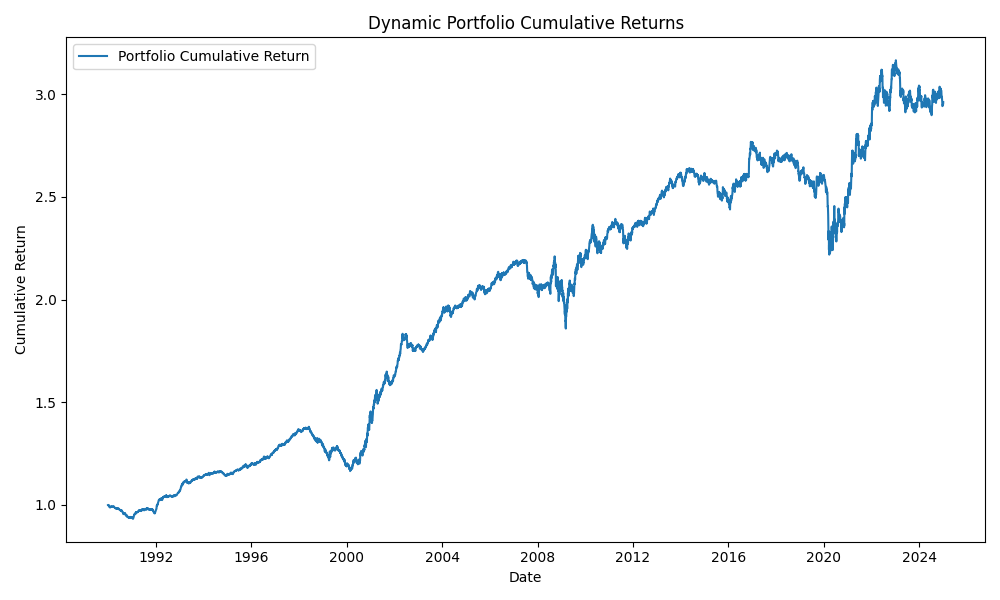
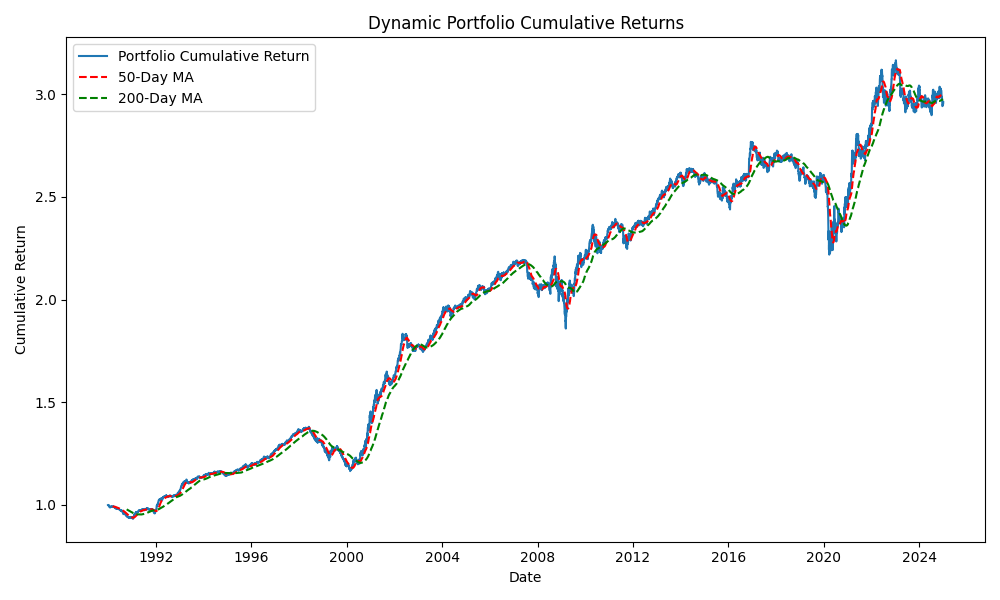
deploy: b4ad38009a0f64b21cd2f6718aca7c026e3aa512

diff --git a/_modules/main.html b/_modules/main.html
@@ -141,13 +141,18 @@
     <span class="n">stressed_results</span> <span class="o">=</span> <span class="n">stress_test_portfolio</span><span class="p">(</span><span class="n">portfolio_returns</span><span class="p">,</span> <span class="n">scenarios</span><span class="p">)</span>
     <span class="nb">print</span><span class="p">(</span><span class="s2">&quot;Stress Test Results:&quot;</span><span class="p">,</span> <span class="n">stressed_results</span><span class="p">)</span>
 
-    <span class="c1"># Generate cumulative returns plot (unchanged)</span>
+    <span class="c1"># Generate cumulative returns plot and include 50 &amp; 200 day moving averages.</span>
     <span class="n">cum_returns</span> <span class="o">=</span> <span class="p">(</span><span class="mi">1</span> <span class="o">+</span> <span class="n">portfolio_returns</span><span class="p">)</span><span class="o">.</span><span class="n">cumprod</span><span class="p">()</span>
+    <span class="n">ma50</span> <span class="o">=</span> <span class="n">cum_returns</span><span class="o">.</span><span class="n">rolling</span><span class="p">(</span><span class="n">window</span><span class="o">=</span><span class="mi">50</span><span class="p">)</span><span class="o">.</span><span class="n">mean</span><span class="p">()</span>
+    <span class="n">ma200</span> <span class="o">=</span> <span class="n">cum_returns</span><span class="o">.</span><span class="n">rolling</span><span class="p">(</span><span class="n">window</span><span class="o">=</span><span class="mi">200</span><span class="p">)</span><span class="o">.</span><span class="n">mean</span><span class="p">()</span>
+
     <span class="n">output_dir</span> <span class="o">=</span> <span class="n">os</span><span class="o">.</span><span class="n">path</span><span class="o">.</span><span class="n">join</span><span class="p">(</span><span class="s2">&quot;docs&quot;</span><span class="p">,</span> <span class="s2">&quot;_static&quot;</span><span class="p">)</span>
     <span class="n">os</span><span class="o">.</span><span class="n">makedirs</span><span class="p">(</span><span class="n">output_dir</span><span class="p">,</span> <span class="n">exist_ok</span><span class="o">=</span><span class="kc">True</span><span class="p">)</span>
     <span class="n">portfolio_plot_path</span> <span class="o">=</span> <span class="n">os</span><span class="o">.</span><span class="n">path</span><span class="o">.</span><span class="n">join</span><span class="p">(</span><span class="n">output_dir</span><span class="p">,</span> <span class="s2">&quot;portfolio_returns.png&quot;</span><span class="p">)</span>
     <span class="n">plt</span><span class="o">.</span><span class="n">figure</span><span class="p">(</span><span class="n">figsize</span><span class="o">=</span><span class="p">(</span><span class="mi">10</span><span class="p">,</span> <span class="mi">6</span><span class="p">))</span>
     <span class="n">plt</span><span class="o">.</span><span class="n">plot</span><span class="p">(</span><span class="n">dates</span><span class="p">,</span> <span class="n">cum_returns</span><span class="p">,</span> <span class="n">label</span><span class="o">=</span><span class="s2">&quot;Portfolio Cumulative Return&quot;</span><span class="p">)</span>
+    <span class="n">plt</span><span class="o">.</span><span class="n">plot</span><span class="p">(</span><span class="n">dates</span><span class="p">,</span> <span class="n">ma50</span><span class="p">,</span> <span class="n">label</span><span class="o">=</span><span class="s2">&quot;50-Day MA&quot;</span><span class="p">,</span> <span class="n">color</span><span class="o">=</span><span class="s2">&quot;red&quot;</span><span class="p">,</span> <span class="n">linestyle</span><span class="o">=</span><span class="s2">&quot;--&quot;</span><span class="p">)</span>
+    <span class="n">plt</span><span class="o">.</span><span class="n">plot</span><span class="p">(</span><span class="n">dates</span><span class="p">,</span> <span class="n">ma200</span><span class="p">,</span> <span class="n">label</span><span class="o">=</span><span class="s2">&quot;200-Day MA&quot;</span><span class="p">,</span> <span class="n">color</span><span class="o">=</span><span class="s2">&quot;green&quot;</span><span class="p">,</span> <span class="n">linestyle</span><span class="o">=</span><span class="s2">&quot;--&quot;</span><span class="p">)</span>
     <span class="n">plt</span><span class="o">.</span><span class="n">xlabel</span><span class="p">(</span><span class="s2">&quot;Date&quot;</span><span class="p">)</span>
     <span class="n">plt</span><span class="o">.</span><span class="n">ylabel</span><span class="p">(</span><span class="s2">&quot;Cumulative Return&quot;</span><span class="p">)</span>
     <span class="n">plt</span><span class="o">.</span><span class="n">title</span><span class="p">(</span><span class="s2">&quot;Dynamic Portfolio Cumulative Returns&quot;</span><span class="p">)</span>
